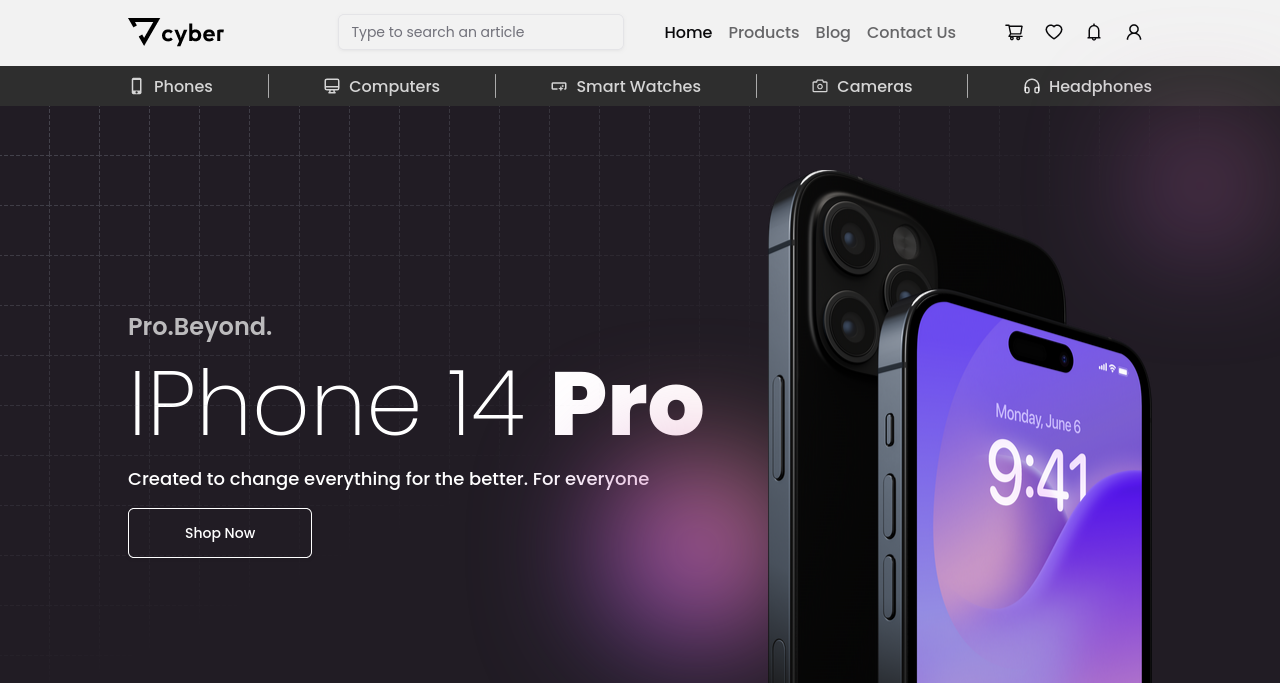
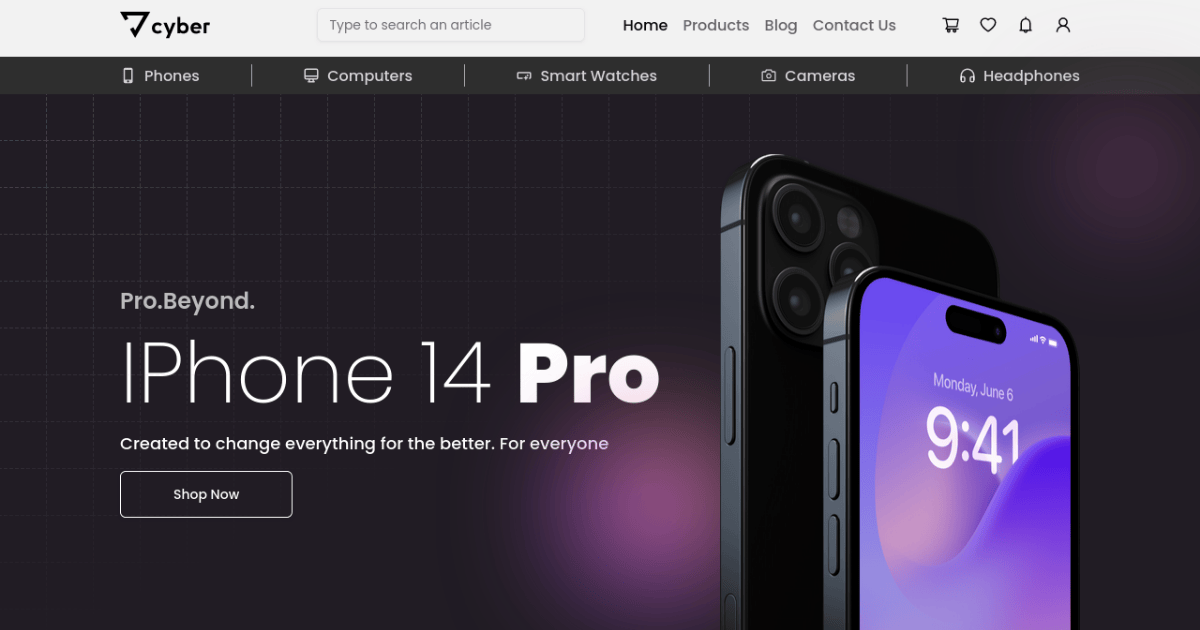
feat: Update navbar and index.hmtl file: correction of images

diff --git a/index.html b/index.html
@@ -22,6 +22,7 @@
     <meta property="og:title" content="Iphone Cameroon" />
     <meta property="og:description" content="A modern e-commerce website dedicated to selling iPhones. Features an intuitive interface, advanced product and order management, and a seamless user experience. Perfect for tech enthusiasts and Apple fans. 🌟📱" />
     <meta property="og:image" content="https://iphone-cameroon.onrender.com/images/preview-image.png" />
+    <meta property="og:image:alt" content="Iphone Cameroon, le paradis de vos désir !" />
     <meta property="og:url" content="https://github.com/01Barthez/Financial-Dashboard" />
     <meta property="og:type" content="website" />
 
@@ -30,6 +31,7 @@
     <meta name="twitter:title" content="Iphone Cameroon" />
     <meta name="twitter:description" content="A modern e-commerce website dedicated to selling iPhones. Features an intuitive interface, advanced product and order management, and a seamless user experience. Perfect for tech enthusiasts and Apple fans. 🌟📱" />
     <meta name="twitter:image" content="https://iphone-cameroon.onrender.com/images/preview-image.png" />
+    <meta property="twitter:image:alt" content="Iphone Cameroon, le paradis de vos désir !" />
 
     <!-- Copyright information -->
     <meta name="copyright" content="© 2024 Barthez Kenwou. All rights reserved." />

diff --git a/src/layouts/footer/Footer.tsx b/src/layouts/footer/Footer.tsx
@@ -21,7 +21,7 @@ import {
 const Footer: React.FC = () => {
   return (
     <footer className='bg-footer text-footer-foreground w-full border-t border-t-foreground/80'>
-      <div className="container py-10 space-y-10">
+      <div className="relative container py-10 space-y-10">
         {/* First line */}
         <div className="grid grid-cols-1 sm:grid-cols-2 md:grid-cols-3 lg:grid-cols-4 xl:grid-cols-5 gap-8 justify-items-center md:justify-items-start">
           {/* Logo and description colonn */}
@@ -75,6 +75,9 @@ const Footer: React.FC = () => {
             <ModeToogle />
           </div>
         </div>
+
+        <div className="absolute top-10 right-10 w-20 h-20 blur-3xl bg-hero-linear rounded-full" />
+        <div className="absolute bottom-28 md:top-28 md:left-80 w-20 h-20 blur-3xl bg-hero-linear rounded-full" />
       </div>
 
       {/* Profile */}
@@ -93,12 +96,11 @@ const Footer: React.FC = () => {
               </Link>
             </TooltipTrigger>
 
-            <TooltipContent>
+            <TooltipContent className='bg-transparent border border-foreground text-foreground'>
               <p>I'm Full Stack JS developper, Click to see more...</p>
             </TooltipContent>
           </Tooltip>
         </TooltipProvider>
-
       </div>
     </footer>
   )

diff --git a/src/layouts/navbar/DownNavbar.tsx b/src/layouts/navbar/DownNavbar.tsx
@@ -5,7 +5,7 @@ import { NavLink } from 'react-router-dom'
 
 const DownNavbar: React.FC = () => {
   return (
-    <div className='hidden lg:block bg-[#2E2E2E] dark:bg-slate-400 py-2 w-full'>
+    <div className='hidden lg:block bg-[#2E2E2E] dark:bg-slate-400 py-1.5 w-full text-sm'>
       <div className="container flex items-center justify-between w-full gap-6 font-medium">
         {
           LinkCategory.map((sublink, index) => (
@@ -14,13 +14,13 @@ const DownNavbar: React.FC = () => {
                 to={sublink.href}
                 className={({ isActive }) => `flex items-center gap-2 text-nowrap ${isActive ? "text-background" : "text-background/80 duration-200"}`}
               >
-                <span className="text-lg">{sublink.icon}</span>
+                <span className="text-sm">{sublink.icon}</span>
                 <span>{sublink.name}</span>
               </NavLink>
 
               {
                 index < LinkCategory.length - 1 && (
-                  <Separator orientation="vertical" className="h-6 rounded-full bg-background/60" />
+                  <Separator orientation="vertical" className="h-5 rounded-full bg-background/60" />
                 )
               }
             </React.Fragment>

diff --git a/src/components/custom/BestProducts.tsx b/src/components/custom/BestProducts.tsx
@@ -2,8 +2,20 @@ import React from 'react'
 
 const BestProducts: React.FC = () => {
   return (
-    <div>
-      BestProducts
+    <div className='w-full'>
+      <div className="flex-col md:flex-rol">
+        {/* bloc1 */}
+        <div className="max-w-[50%] flex flex-col">
+          {/* Up products */}
+          <div className="flex items-center gap-6"></div>
+        </div>
+        
+        {/* bloc2 */}
+        <div className="max-w-[50%]"></div>
+        
+        {/* bloc3 */}
+        <div className="max-w-[50%]"></div>
+      </div>
     </div>
   )
 }

diff --git a/src/layouts/navbar/UpNavbar.tsx b/src/layouts/navbar/UpNavbar.tsx
@@ -14,7 +14,7 @@ const userNameSlug = "barthez";
 
 const UpNavbar: React.FC = () => {
   return (
-    <div className="bg-foreground/5 py-2 md:py-4  w-full">
+    <div className="bg-background py-2 md:py-4  w-full ">
       <div className='container flex items-center gap-10 justify-between'>
         {/* Logo website */}
         <Logo />

diff --git a/src/components/custom/utils/SearchInput.tsx b/src/components/custom/utils/SearchInput.tsx
@@ -51,6 +51,7 @@ const SearchInput: React.FC = () => {
                     required
                     onKeyDown={handleKeyDown}
                     placeholder="Type to search an article"
+                    className='border-foreground/80'
                     {...field}
                   />
                 </FormControl>

diff --git a/src/index.css b/src/index.css
@@ -69,7 +69,7 @@
     @apply bg-sky-500/80 text-foreground/80;
   }
   body {
-    @apply bg-background font-poppins text-foreground duration-150;
+    @apply relative bg-background font-poppins text-foreground duration-150;
   }
 
   .linkhover {
